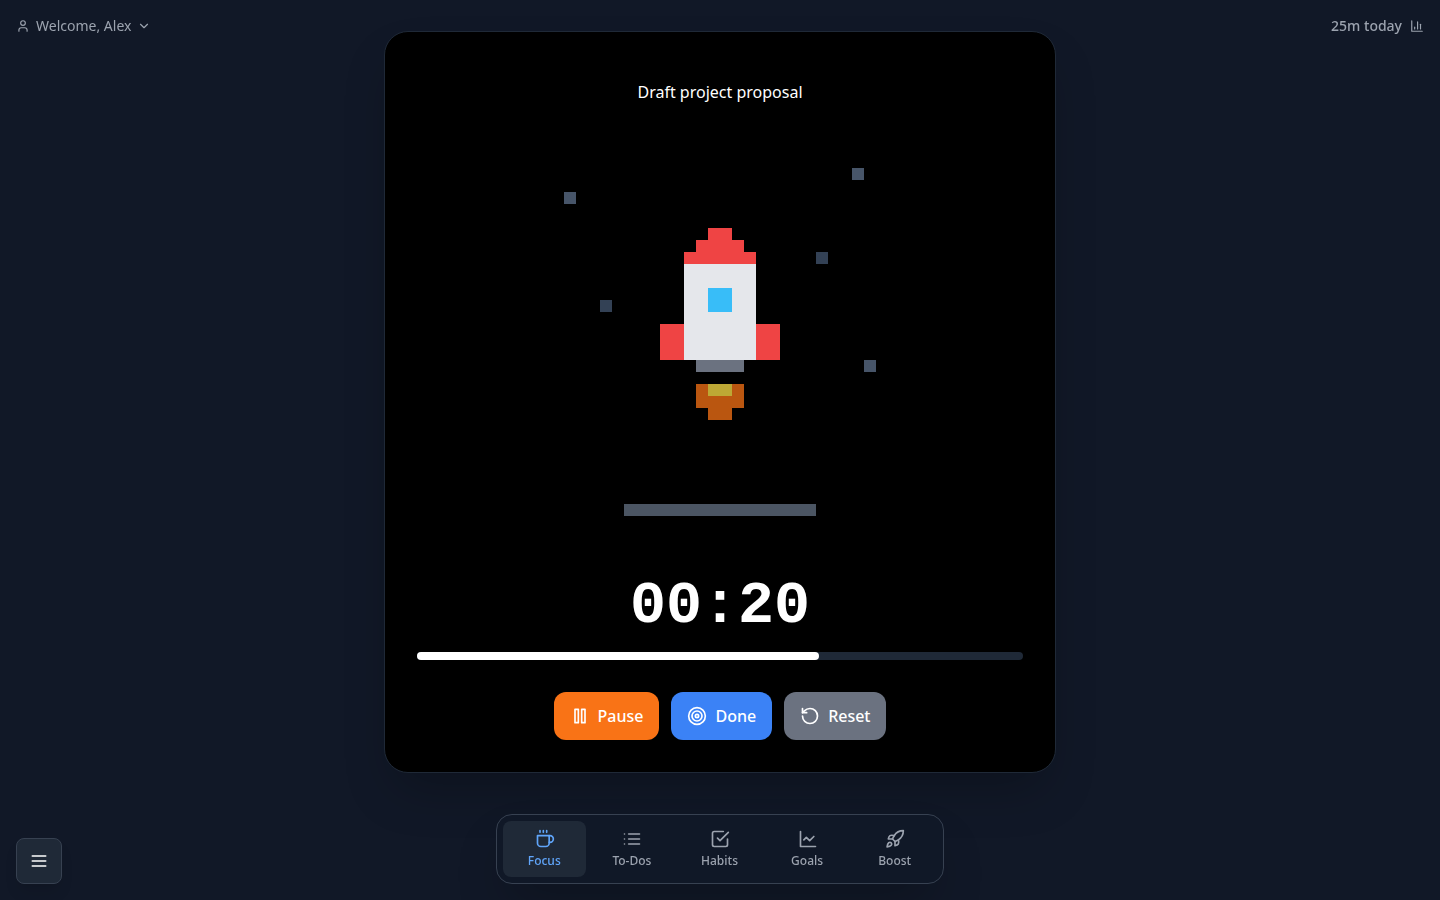
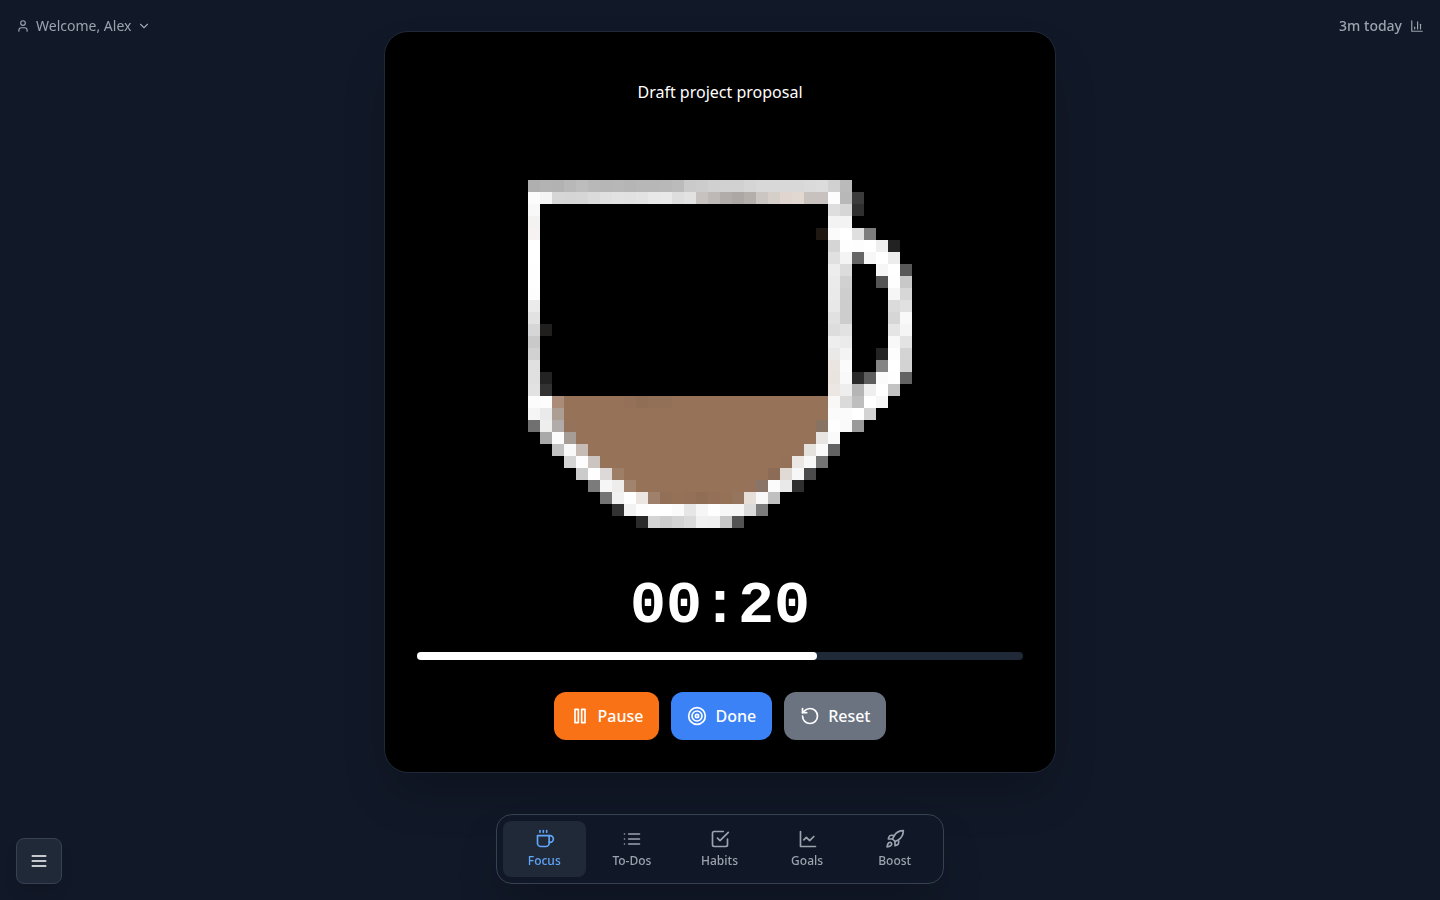
docs: show the coffee-cup animation in the README main image (#15)
## Summary
README main image now shows a focus session with the coffee-cup animation half full, instead of the rocket. Alt text updated to match.

## Testing
- Screenshot taken from the current app at 1440x900; image path unchanged.

Changed region(s): [[0.3438, 0.1867, 0.6562, 0.5911]]

diff --git a/README.md b/README.md
@@ -12,7 +12,7 @@ Runs as a web app or as a browser extension, and keeps every bit of data in your
 ![Next.js 16](https://img.shields.io/badge/Next.js-16-000000?logo=next.js)
 ![Data stays local](https://img.shields.io/badge/data-local%20only-374151)
 
-<img src="docs/screenshots/focus-running.png" alt="A focus session in progress: a pixel-art rocket climbs as the countdown runs, with Pause, Done and Reset buttons" width="820">
+<img src="docs/screenshots/focus-running.png" alt="A focus session in progress: a pixel-art coffee cup half full as the countdown runs, with Pause, Done and Reset buttons" width="820">
 
 </div>
 
